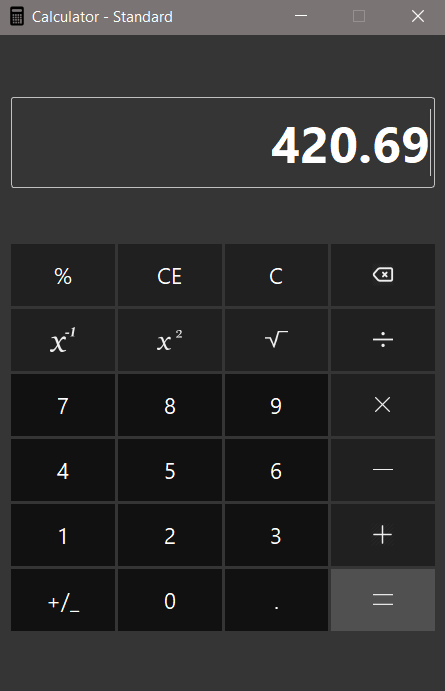
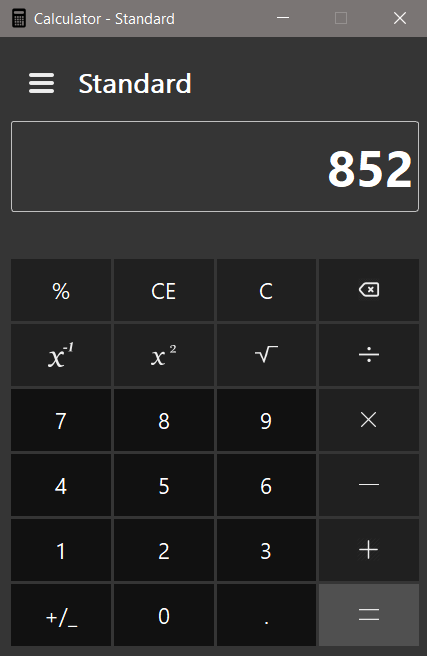
updated screenshot

diff --git a/src/UI_standard_calculator.py b/src/UI_standard_calculator.py
@@ -29,8 +29,6 @@ class UiMainWindow(QWidget):
         self.sub_widget = QWidget()
         self.sub_widget.setStyleSheet('background-color: #353535;')
 
-        # Didnt add the background thingy!! - NB
-
         self.effect = BlurEffect()
         self.sub_widget.setGraphicsEffect(self.effect)
         self.effect.setEnabled(False)
@@ -163,9 +161,10 @@ class UiMainWindow(QWidget):
         # </BOTTOM LAYOUT>
 
         # <LEFT LAYOUT>
+        # dummy buttons
         for b in range(4):
             btn = QPushButton(f'Button {b+1}')
-            btn.setStyleSheet('background-color: #333; border: 1px solid silver; border-radius: 5px;'
+            btn.setStyleSheet('background-color: #333; border: 1px solid silver;'
                               'padding: 5px 0px;')
             self.menu_layout.addWidget(btn)
         self.menu_layout.addWidget(self.btn_menu_close)
@@ -194,7 +193,7 @@ class UiMainWindow(QWidget):
         self.sliding_menu.setFocus()
         self.effect.setEffectRect(self.sliding_menu.geometry())
         self.effect.setEnabled(True)
-        # self.sliding_menu.setStyleSheet('background-color: rgba(20,20,20,190);')
+        self.sliding_menu.setStyleSheet('background-color: rgba(15,15,15,60);')
         self.sliding_menu.raise_()
 
         # Set the forward for the animation and stary it;
